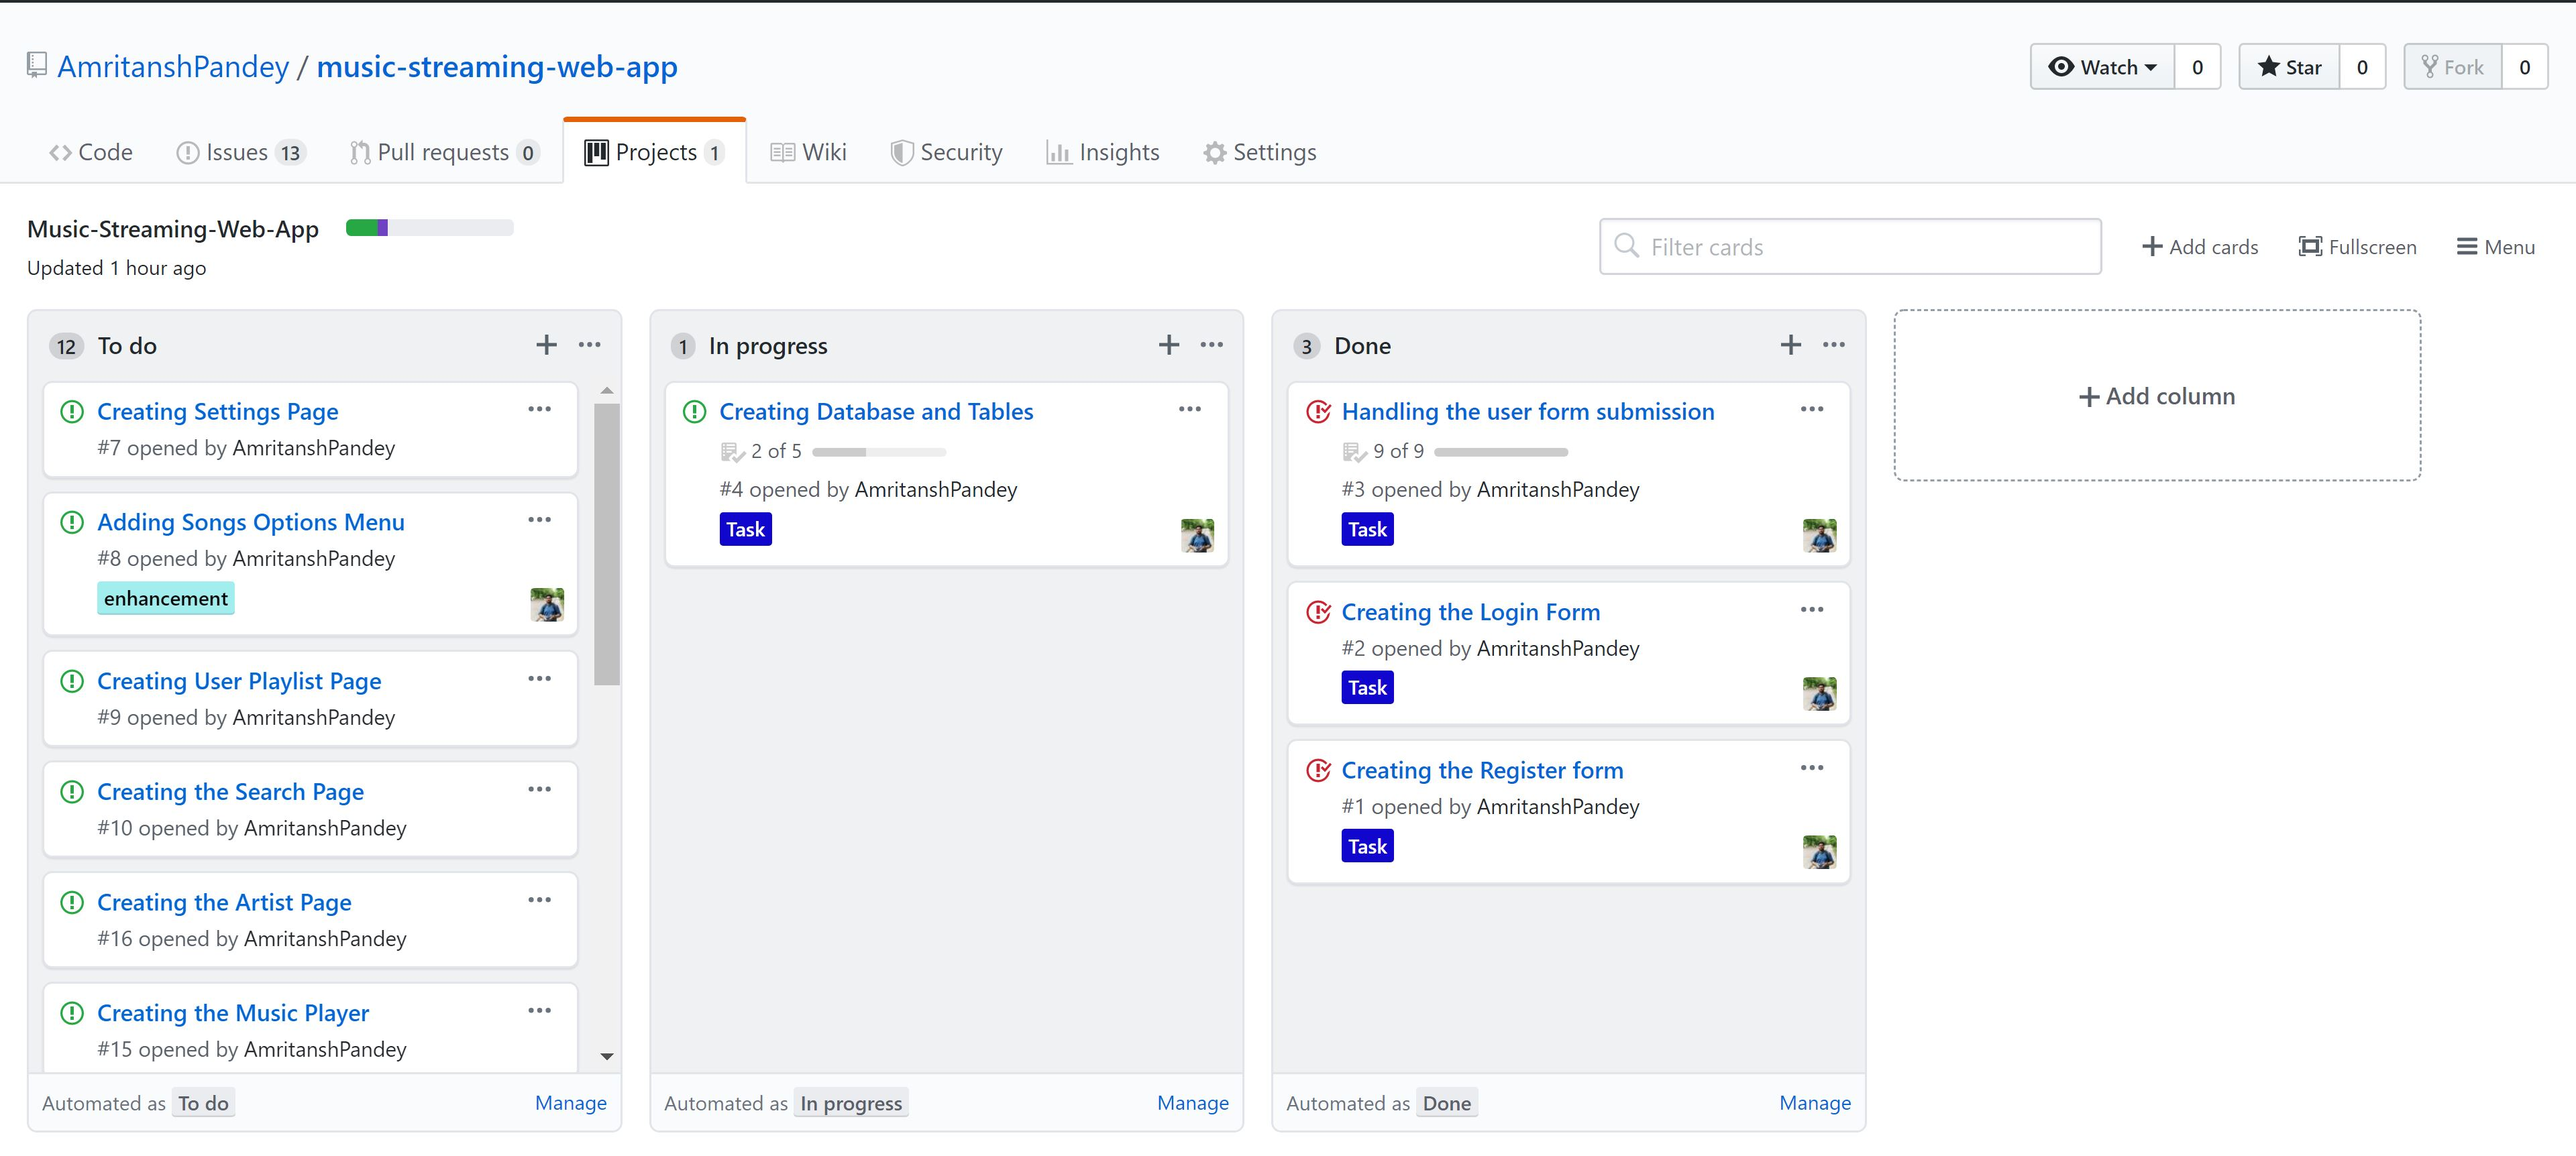
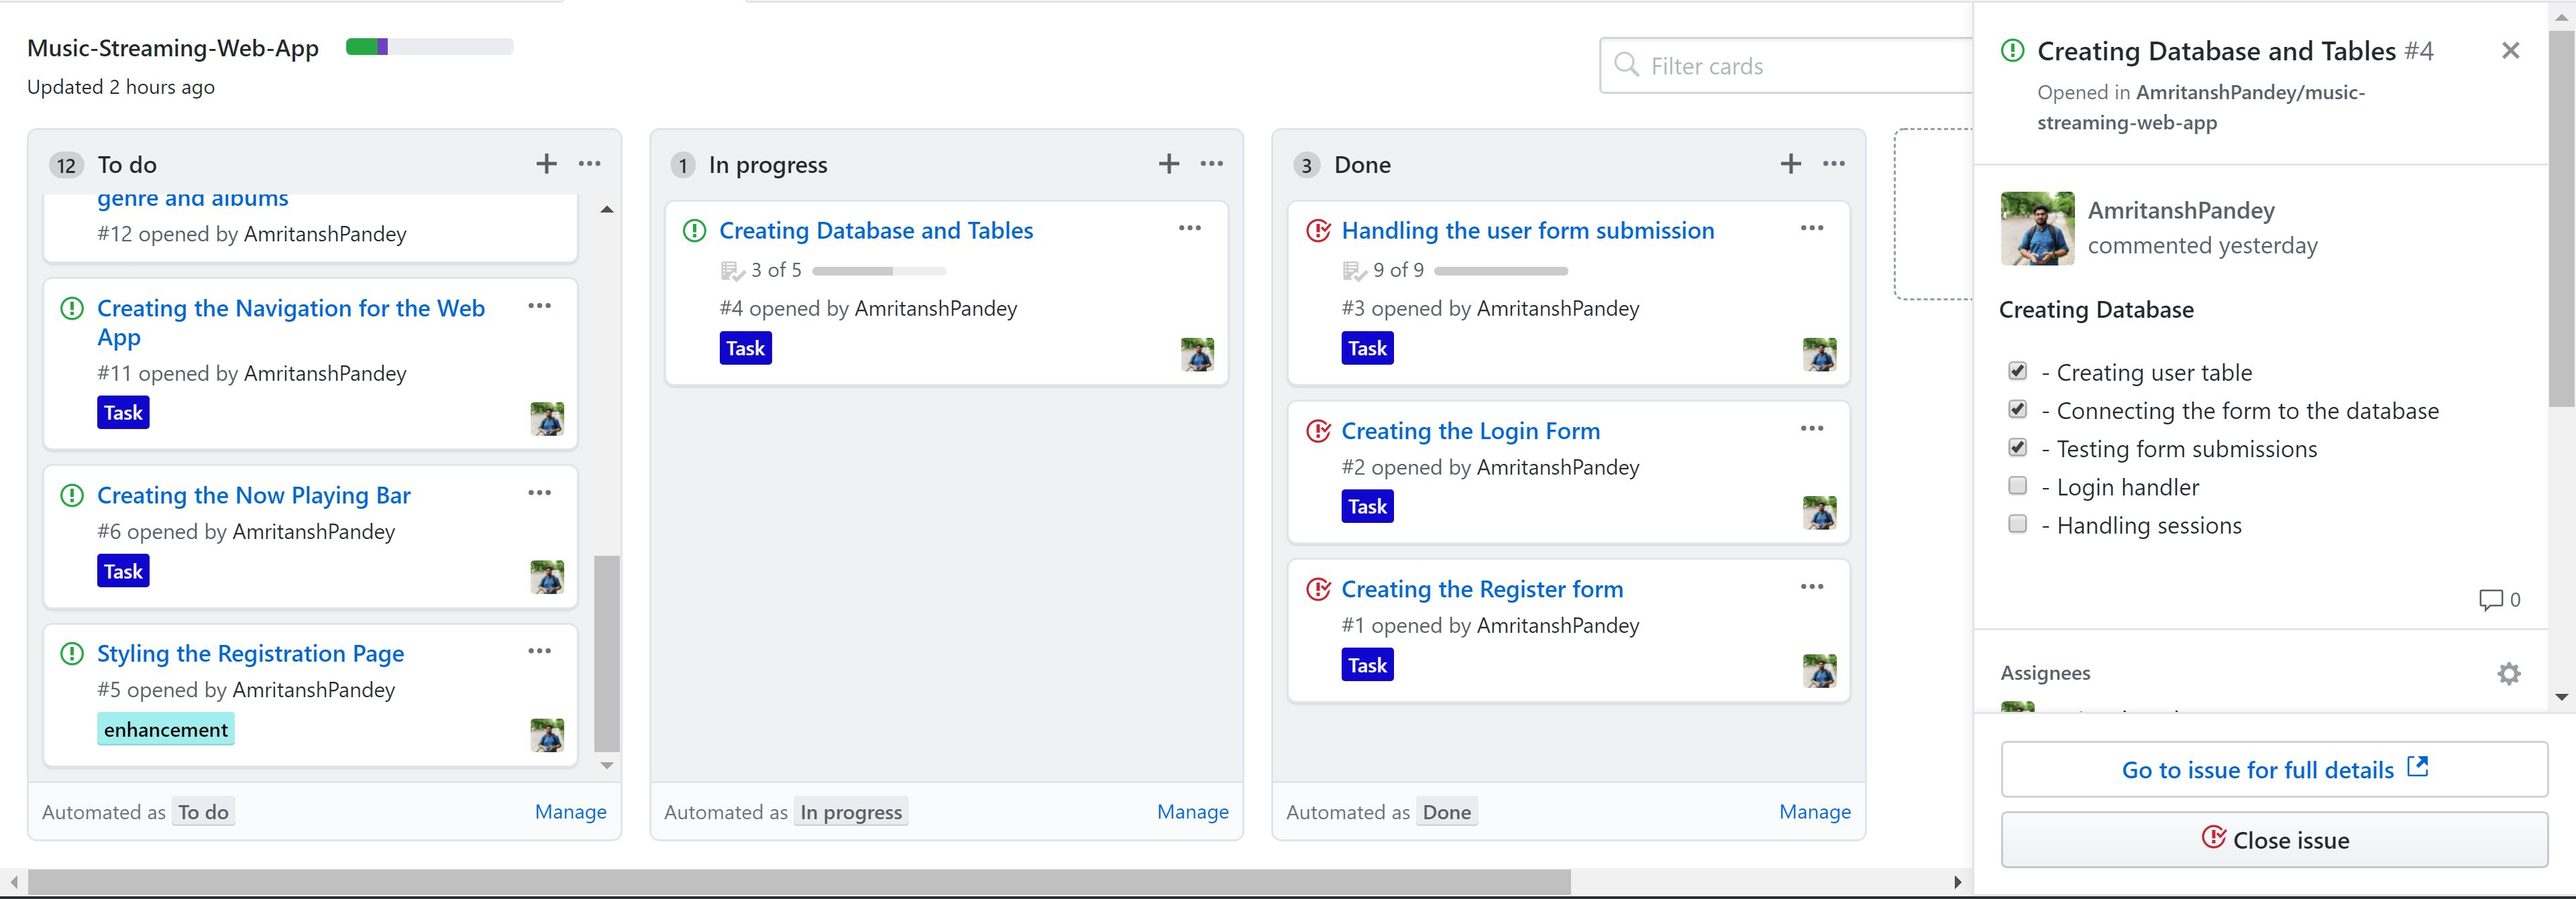
database linked

diff --git a/includes/classes/Account.php b/includes/classes/Account.php
@@ -19,7 +19,7 @@ class Account
         // Condition checking if the error array is empty
         if(empty($this->errorArray) ==true){
             //Insert into DB
-            return insertUserDetails($un, $fn, $ln, $em, $pw);
+            return $this->insertUserDetails($un, $fn, $ln, $em, $pw);
         }
         else{
             return false;  
